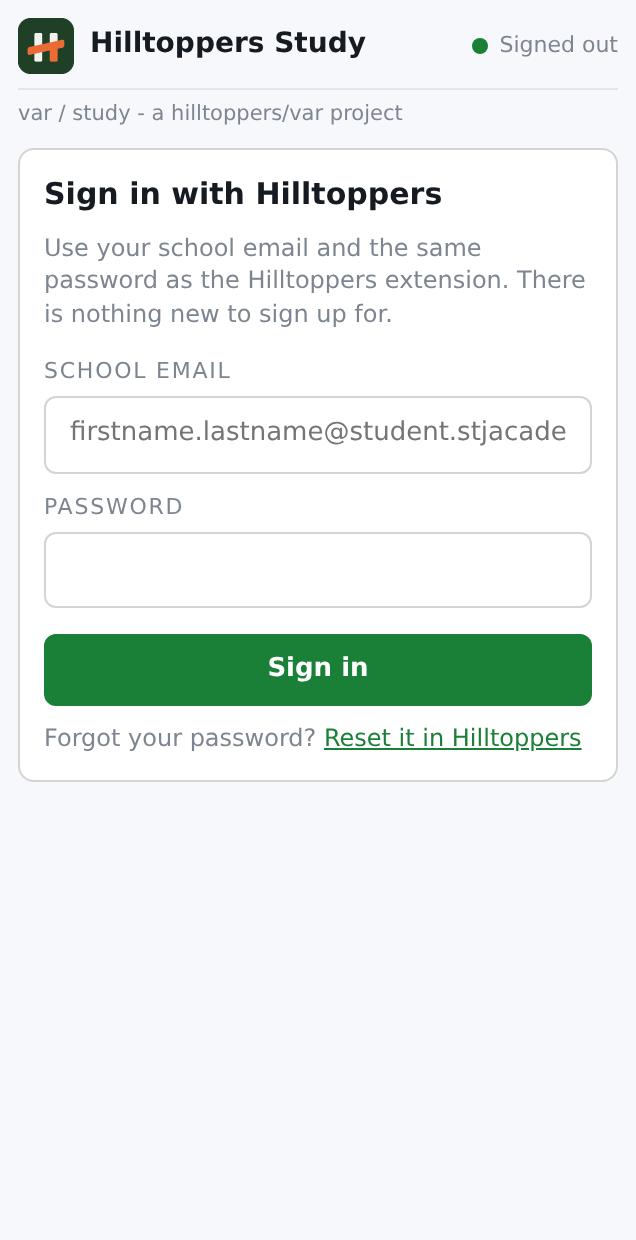
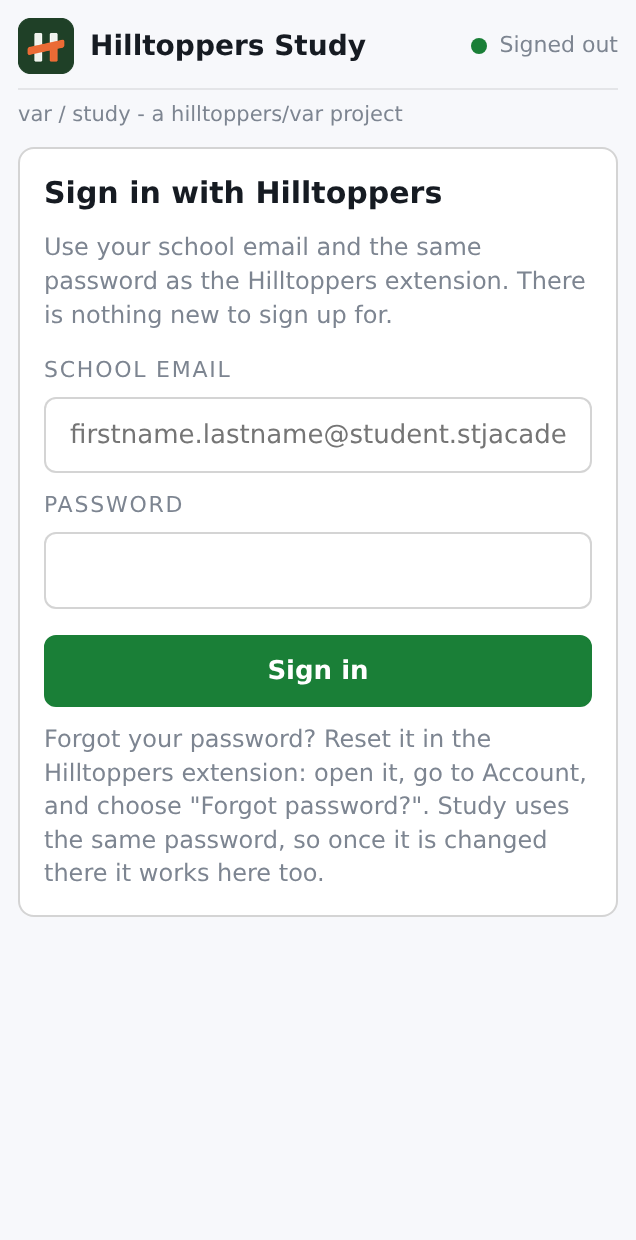
Make the password reset note plain text
"Reset it in Hilltoppers" was a link-styled button that opened
hilltoppers.pages.dev. Students sign in here with their school account, so a
control that leaves the page was misleading; the guidance it revealed now
reads as ordinary text under the sign-in form. The button, its handler, and
the STUDYSTREAM_RESET_URL setting it used are gone, along with the now-unused
.link style. The sign-in screenshot is refreshed to match.

diff --git a/app.js b/app.js
@@ -13,7 +13,6 @@
   const API_BASE = (window.STUDYSTREAM_API || '').replace(/\/+$/, '');
   const PEER_OPTIONS = window.STUDYSTREAM_PEER || {};
   const FIREBASE = window.STUDYSTREAM_FIREBASE || {};
-  const RESET_URL = window.STUDYSTREAM_RESET_URL || '';
   const STUDENT_DOMAIN = 'student.stjacademy.org';
   const MAX_MESSAGE = 4000;
   const STORE_KEY = 'hilltoppers-study.account.v1';
@@ -603,7 +602,6 @@
   $('signin-form').onsubmit = async (event) => {
     event.preventDefault();
     signinError.hidden = true;
-    $('signin-forgot').hidden = true;
     const email = $('signin-email').value.trim().toLowerCase();
     const password = $('signin-password').value;
     if (!isStudentEmail(email)) {
@@ -626,13 +624,6 @@
       button.disabled = false;
       button.textContent = 'Sign in';
     }
-  };
-
-  // Study cannot reset a Hilltoppers password. Point the student at Hilltoppers
-  // instead of pretending to.
-  $('forgot').onclick = () => {
-    $('signin-forgot').hidden = false;
-    if (RESET_URL) window.open(RESET_URL, '_blank', 'noopener');
   };
 
   $('invite-form').onsubmit = async (event) => {

diff --git a/index.html b/index.html
@@ -49,9 +49,8 @@
           <input id="signin-password" name="password" type="password" autocomplete="current-password" required>
           <button class="primary" id="signin-submit" type="submit">Sign in</button>
         </form>
-        <p class="note">Forgot your password? <button class="link" id="forgot" type="button">Reset it in Hilltoppers</button></p>
+        <p class="note">Forgot your password? Reset it in the Hilltoppers extension: open it, go to Account, and choose "Forgot password?". Study uses the same password, so once it is changed there it works here too.</p>
         <p class="error" id="signin-error" role="alert" hidden></p>
-        <p class="note" id="signin-forgot" hidden>Open the Hilltoppers extension, go to Account, and choose "Forgot password?" to reset it there. Study uses the same password, so once it is changed in Hilltoppers it works here too.</p>
       </div>
     </section>
 

diff --git a/style.css b/style.css
@@ -341,17 +341,6 @@ button:focus-visible { outline: 2px solid var(--accent); outline-offset: 2px; }
   box-shadow: 0 0 0 3px var(--accent-muted);
 }
 .stack .primary { margin-top: 8px; }
-/* A link that reads as a link but is a button, so it needs no href. */
-.link {
-  border: 0;
-  background: none;
-  padding: 0;
-  color: var(--accent);
-  font: inherit;
-  text-decoration: underline;
-  cursor: pointer;
-}
-.link:hover { color: #14652c; }
 
 /* The signed-in student's own name */
 .student-name { font-size: 15px; font-weight: 700; color: var(--heading); }

diff --git a/config.js b/config.js
@@ -18,10 +18,6 @@ window.STUDYSTREAM_FIREBASE = {
   projectId: 'schedule-59d28'
 };
 
-/* Where a student resets a forgotten password. Study cannot change it, because
- * the password belongs to the Hilltoppers account. */
-window.STUDYSTREAM_RESET_URL = 'https://hilltoppers.pages.dev/';
-
 /* Relay (TURN) servers for the WebRTC handshake.
  *
  * Leave this empty. The Worker hands out short-lived relay credentials at

diff --git a/README.md b/README.md
@@ -21,8 +21,8 @@ extension itself.
 There is no new account and no new password. Study signs in against the same
 Firebase project the Hilltoppers extension uses, so a student types their school
 email and the password they already have. Study creates nothing, stores no
-password, and cannot reset one; the **Forgot your password?** link says to reset
-it in Hilltoppers, because that is where the password lives.
+password, and cannot reset one; the **Forgot your password?** note says to reset
+it in the Hilltoppers extension, because that is where the password lives.
 
 - The email must end in `@student.stjacademy.org`. Staff addresses are refused:
   this is a student tool.
